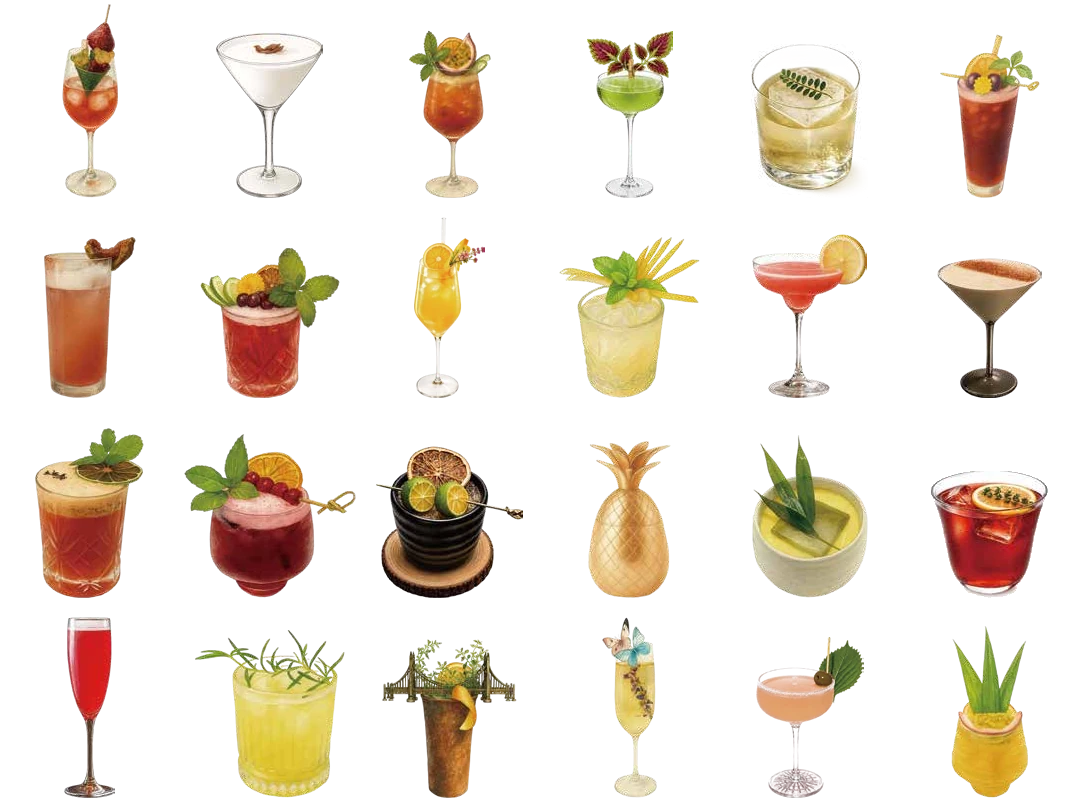
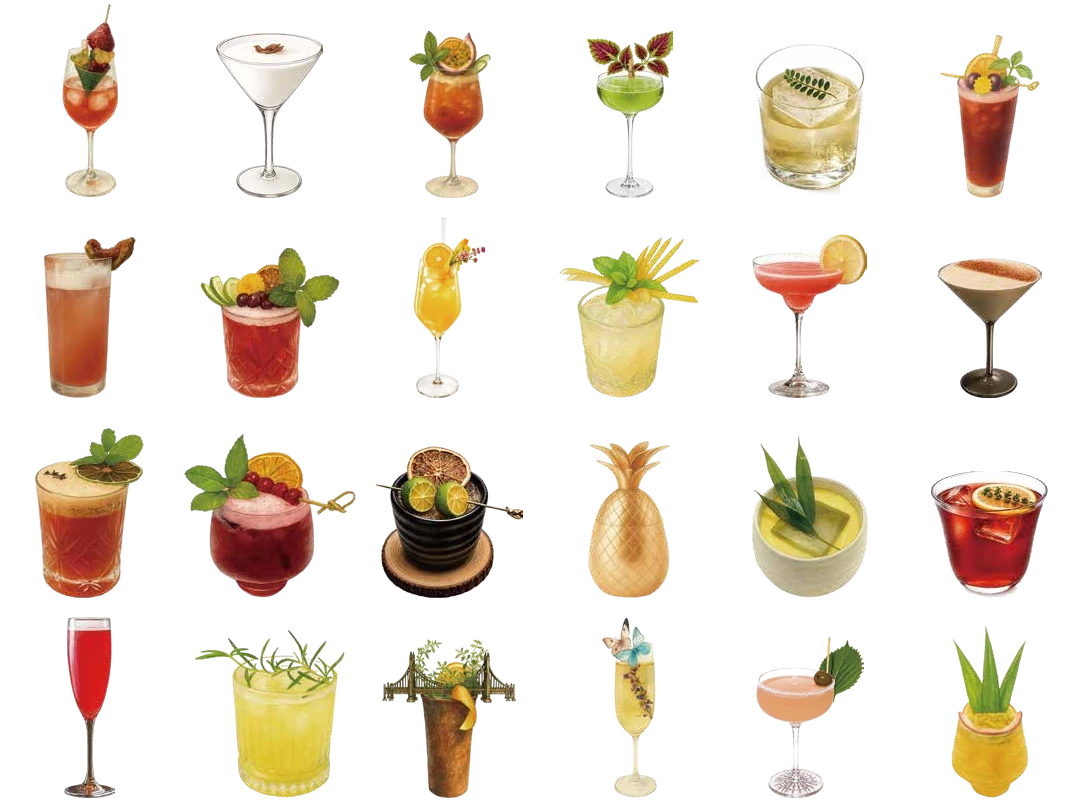
粒子舞台：補回半透明杯緣、細節加權取樣，移除舞台下方酒名按鈕
- 透明度門檻 128→35：Ibuki、Ember 等玻璃杯緣與杯腳在原圖是半透明，原本被濾掉
- 圖集擦掉 Ibuki 杯外的半透明投影（與杯緣同樣半透明，數值分不開）
- 粒子依細節權重分配（亮度差大的花瓣、葉脈、杯緣分到較多），並改貼在朝前曲面上，避免前方粒子遮住細節
- 舞台下方只留系列分頁，酒名改由文字酒單點選

Changed region(s): [[0.6722, 0.0625, 0.825, 0.25]]

diff --git a/cocktail-particles.js b/cocktail-particles.js
@@ -11,11 +11,11 @@
 
   var THREE_URL = 'https://cdn.jsdelivr.net/npm/three@0.169.0/build/three.module.min.js';
   var scriptSrc = (document.currentScript && document.currentScript.src) || location.href;
-  var ATLAS_URL = new URL('webp/cocktail-particles-atlas.webp?v=3', scriptSrc).href; // 換圖集記得改 v
+  var ATLAS_URL = new URL('webp/cocktail-particles-atlas.webp?v=4', scriptSrc).href; // 換圖集記得改 v
   var ATLAS_W = 1080, ATLAS_H = 800;
   // 圖集內每杯的位置 [x, y, w, h]，順序＝酒單順序（每系列 6 杯）
   var RECTS = [
-    [62, 4, 56, 194], [216, 32, 107, 166], [409, 30, 82, 168], [587, 31, 86, 167], [751, 44, 117, 154], [940, 34, 100, 164],
+    [62, 4, 56, 194], [216, 32, 107, 166], [409, 30, 82, 168], [587, 31, 86, 167], [755, 44, 110, 154], [940, 34, 100, 164],
     [44, 237, 92, 161], [200, 248, 140, 150], [414, 217, 71, 181], [559, 237, 141, 161], [752, 234, 115, 164], [937, 258, 105, 140],
     [35, 428, 109, 170], [184, 434, 172, 164], [376, 446, 147, 152], [588, 441, 83, 157], [752, 435, 116, 163], [931, 471, 117, 127],
     [64, 617, 51, 181], [195, 630, 150, 168], [382, 639, 135, 159], [602, 617, 55, 181], [756, 637, 108, 161], [951, 626, 77, 172]
@@ -70,12 +70,10 @@
   sprite.setAttribute('aria-hidden', 'true');
   stage.insertBefore(sprite, el.info);
 
-  // ---- 選單（系列＋酒名） ----
+  // ---- 系列分頁（酒名直接點下方文字酒單） ----
   var seriesRow = document.createElement('div');
   seriesRow.className = 'cs-picker-series';
-  var drinkRow = document.createElement('div');
-  drinkRow.className = 'cs-picker-drinks';
-  if (picker) { picker.appendChild(seriesRow); picker.appendChild(drinkRow); }
+  if (picker) picker.appendChild(seriesRow);
 
   seriesList.forEach(function (s) {
     var b = document.createElement('button');
@@ -85,22 +83,6 @@
     b.addEventListener('click', function () { select(s.first); });
     seriesRow.appendChild(b);
   });
-
-  function renderDrinkRow(si) {
-    if (drinkRow.dataset.series === String(si)) return;
-    drinkRow.dataset.series = String(si);
-    drinkRow.innerHTML = '';
-    drinks.forEach(function (d, i) {
-      if (d.series !== si) return;
-      var b = document.createElement('button');
-      b.type = 'button';
-      b.textContent = d.name;
-      b.dataset.index = String(i);
-      b.setAttribute('aria-pressed', 'false');
-      b.addEventListener('click', function () { select(i); });
-      drinkRow.appendChild(b);
-    });
-  }
 
   // 文字酒單每一項都可點 → 捲回舞台並換酒
   drinks.forEach(function (d, i) {
@@ -161,10 +143,6 @@
 
     seriesRow.querySelectorAll('button').forEach(function (b, si) {
       b.setAttribute('aria-pressed', si === d.series ? 'true' : 'false');
-    });
-    renderDrinkRow(d.series);
-    drinkRow.querySelectorAll('button').forEach(function (b) {
-      b.setAttribute('aria-pressed', b.dataset.index === String(i) ? 'true' : 'false');
     });
     drinks.forEach(function (x, k) {
       x.el.classList.toggle('is-active', k === i);
@@ -258,7 +236,8 @@
       var sr = 0, sg = 0, sb = 0, x, y;
       var mask = new Uint8Array(W * H);
       for (y = 0; y < H; y++) for (x = 0; x < W; x++) {
-        if (px[((r[1] + y) * AW + r[0] + x) * 4 + 3] >= 128) mask[y * W + x] = 1;
+        // 門檻放低到 35：玻璃杯緣、杯腳在原圖是半透明的（投影已在製作圖集時擦掉）
+        if (px[((r[1] + y) * AW + r[0] + x) * 4 + 3] >= 35) mask[y * W + x] = 1;
       }
       // 厚度≈所在橫向連續段與縱向連續段到端點距離的較小值（近似，非真正的距離轉換）：杯身中央厚、杯緣／橋桁／竹籤／葉片薄
       var th = new Float32Array(W * H);
@@ -280,14 +259,23 @@
           for (var yy = y0; yy < y; yy++) th[yy * W + x] = Math.min(th[yy * W + x], Math.min(yy - y0, y - 1 - yy) + 0.5);
         }
       }
+      // 細節權重：跟四鄰亮度差越大（花瓣、葉脈、杯緣）分到越多粒子；半透明的細杯緣也加權，免得只剩稀疏的點
+      var lum = function (xx, yy) { var o2 = ((r[1] + yy) * AW + r[0] + xx) * 4; return px[o2] * 0.3 + px[o2 + 1] * 0.59 + px[o2 + 2] * 0.11; };
+      var wsum = 0, cum = [];
       for (y = 0; y < H; y++) for (x = 0; x < W; x++) {
         if (!mask[y * W + x]) continue;
-        var o = ((r[1] + y) * AW + r[0] + x) * 4;
+        var o = ((r[1] + y) * AW + r[0] + x) * 4, L = lum(x, y), dv = 0;
+        if (x > 0) dv += Math.abs(L - lum(x - 1, y));
+        if (x < W - 1) dv += Math.abs(L - lum(x + 1, y));
+        if (y > 0) dv += Math.abs(L - lum(x, y - 1));
+        if (y < H - 1) dv += Math.abs(L - lum(x, y + 1));
+        var wgt = 1 + Math.min(1, dv / 90) * 2 + (px[o + 3] < 128 ? 1.5 : 0);
         list.push(x, y, px[o], px[o + 1], px[o + 2], th[y * W + x]);
+        wsum += wgt; cum.push(wsum);
         sr += px[o]; sg += px[o + 1]; sb += px[o + 2];
       }
       var n = list.length / 6 || 1;
-      var info = { list: list, w: r[2], h: r[3] };
+      var info = { list: list, cum: cum, total: wsum, w: r[2], h: r[3] };
       d.tint = 'rgb(' + Math.round(sr / n) + ',' + Math.round(sg / n) + ',' + Math.round(sb / n) + ')';
       cache[d.index] = info;
       return info;
@@ -405,15 +393,18 @@
       var u = Math.min(HEIGHT / info.h, MAXW / info.w);
       var pos = new Float32Array(N * 3), col = new Float32Array(N * 3);
       for (var k = 0; k < NDrink; k++) {
-        // 粒子均勻鋪滿整張插圖（亂數取樣會留下空洞）。⚠ 不能用 k % cnt：手機粒子數少於像素數時，
-        // 只會分到上半部的像素，杯子下半截被切掉。改成依比例跨步取樣。perm 打散粒子編號，變形時才會四處飛
-        var o = Math.min(cnt - 1, Math.floor(k * cnt / NDrink)) * 6;
+        // 依細節權重的累積分布等距取樣，鋪滿整張插圖。⚠ 不能用 k % cnt：手機粒子數少於像素數時
+        // 只會分到上半部，杯子下半截被切掉。perm 打散粒子編號，變形時才會四處飛
+        var goal = (k + 0.5) / NDrink * info.total, lo = 0, hi = cnt - 1;
+        while (lo < hi) { var mid = (lo + hi) >> 1; if (info.cum[mid] < goal) lo = mid + 1; else hi = mid; }
+        var o = lo * 6;
         var x = list[o] + Math.random(), y = list[o + 1] + Math.random();
         var depth = Math.min(list[o + 5] * u, 0.55);
         var j = perm[k] * 3;
         pos[j] = (x - info.w / 2) * u;
         pos[j + 1] = (info.h - y) * u - HEIGHT / 2;
-        pos[j + 2] = depth * (Math.random() * 2 - 1);
+        // 粒子貼在一層朝前的曲面上（不是整塊體積）：前面的粒子才不會蓋住花瓣、葉脈等細節
+        pos[j + 2] = depth * (0.8 + Math.random() * 0.2);
         // 深色部位（銅杯、橋、深色杯墊）在黑底疊加下會消失 → 墊一層底光，保留原色相
         col[j] = 0.06 + list[o + 2] / 255 * 0.94;
         col[j + 1] = 0.055 + list[o + 3] / 255 * 0.94;

diff --git a/en/index.html b/en/index.html
@@ -2218,8 +2218,7 @@
       max-width: 960px;
       margin: 1rem auto 0;
     }
-    .cs-picker-series,
-    .cs-picker-drinks {
+    .cs-picker-series {
       display: flex;
       flex-wrap: wrap;
       justify-content: center;
@@ -2236,18 +2235,6 @@
       cursor: pointer;
     }
     .cs-picker-series button[aria-pressed="true"] { color: var(--gold); border-bottom-color: var(--gold); }
-    .cs-picker-drinks button {
-      padding: 0.4rem 0.85rem;
-      border: 1px solid var(--border);
-      border-radius: 999px;
-      background: transparent;
-      color: var(--grey-light);
-      font-size: 0.78rem;
-      cursor: pointer;
-      transition: border-color 0.2s, color 0.2s, background 0.2s;
-    }
-    .cs-picker-drinks button:hover { border-color: var(--gold-dim); color: var(--white); }
-    .cs-picker-drinks button[aria-pressed="true"] { border-color: var(--gold); background: var(--gold); color: var(--black); }
     .cocktail-poster-links {
       max-width: 960px;
       margin: 1.2rem auto 0;
@@ -4648,6 +4635,6 @@
   })();
   </script>
 
-<script src="../cocktail-particles.js?v=20260929r" defer></script>
+<script src="../cocktail-particles.js?v=20260929u" defer></script>
 </body>
 </html>

diff --git a/index.html b/index.html
@@ -2218,8 +2218,7 @@
       max-width: 960px;
       margin: 1rem auto 0;
     }
-    .cs-picker-series,
-    .cs-picker-drinks {
+    .cs-picker-series {
       display: flex;
       flex-wrap: wrap;
       justify-content: center;
@@ -2236,18 +2235,6 @@
       cursor: pointer;
     }
     .cs-picker-series button[aria-pressed="true"] { color: var(--gold); border-bottom-color: var(--gold); }
-    .cs-picker-drinks button {
-      padding: 0.4rem 0.85rem;
-      border: 1px solid var(--border);
-      border-radius: 999px;
-      background: transparent;
-      color: var(--grey-light);
-      font-size: 0.78rem;
-      cursor: pointer;
-      transition: border-color 0.2s, color 0.2s, background 0.2s;
-    }
-    .cs-picker-drinks button:hover { border-color: var(--gold-dim); color: var(--white); }
-    .cs-picker-drinks button[aria-pressed="true"] { border-color: var(--gold); background: var(--gold); color: var(--black); }
     .cocktail-poster-links {
       max-width: 960px;
       margin: 1.2rem auto 0;
@@ -4857,6 +4844,6 @@
   })();
   </script>
 
-<script src="cocktail-particles.js?v=20260929r" defer></script>
+<script src="cocktail-particles.js?v=20260929u" defer></script>
 </body>
 </html>
